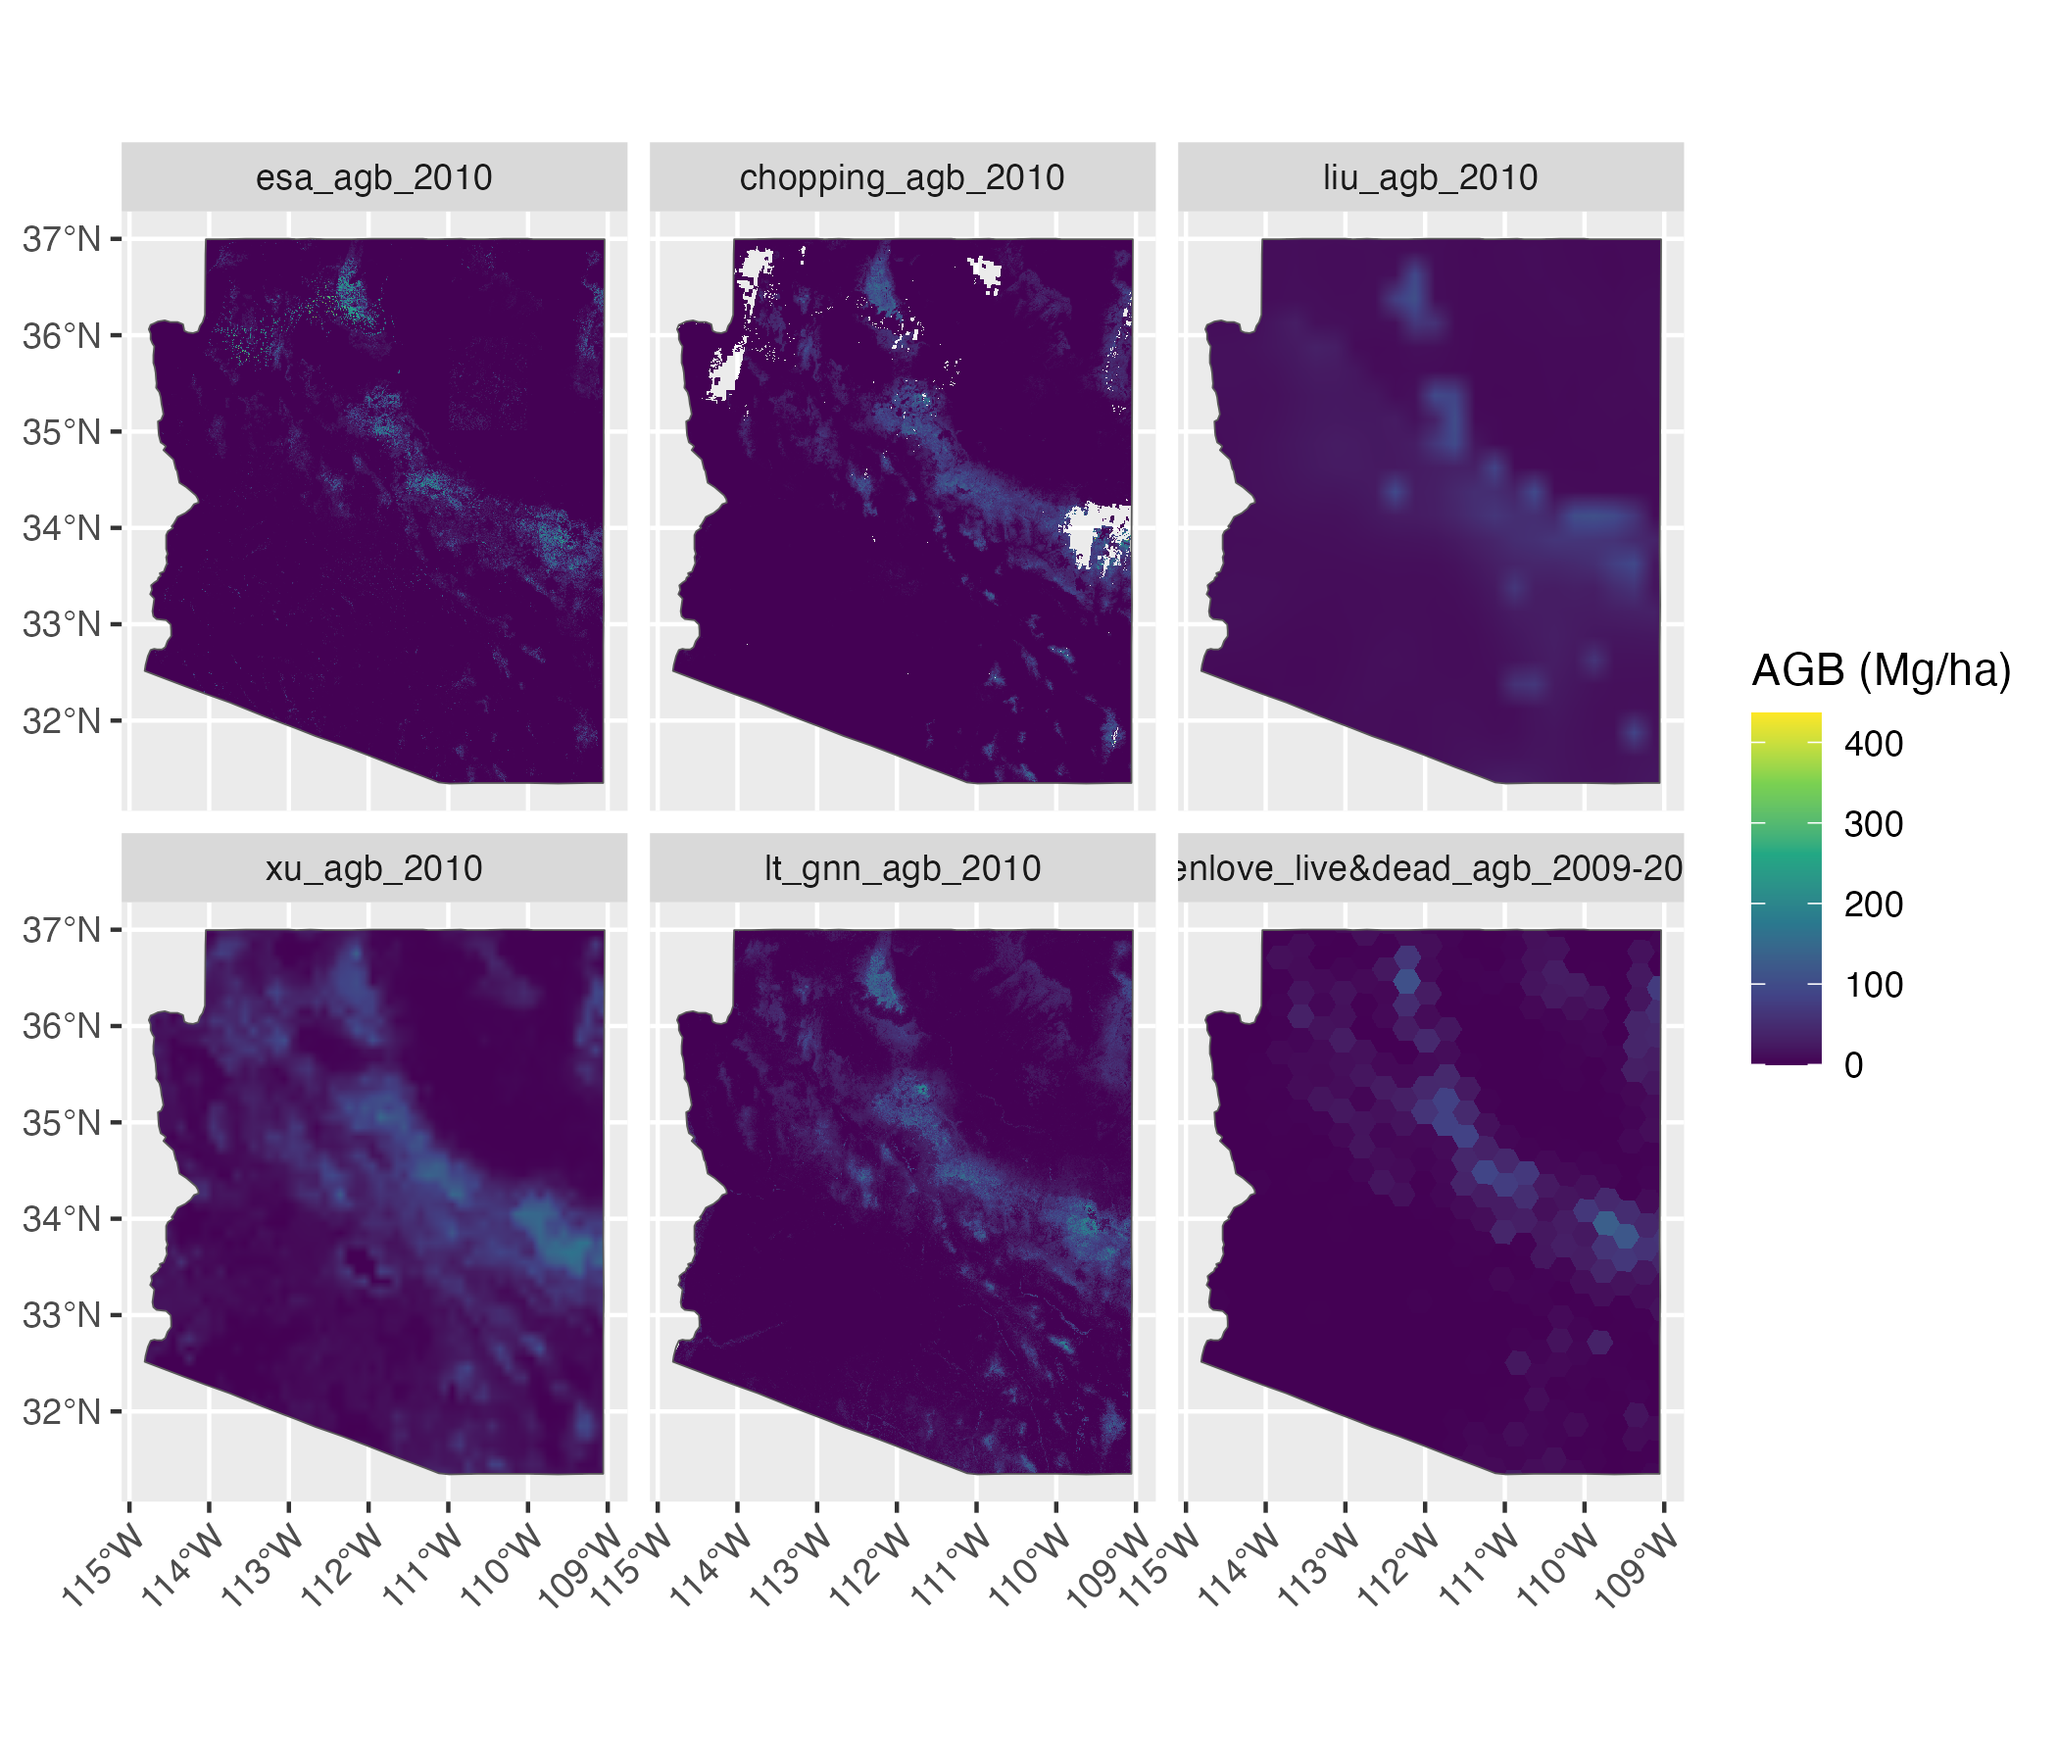
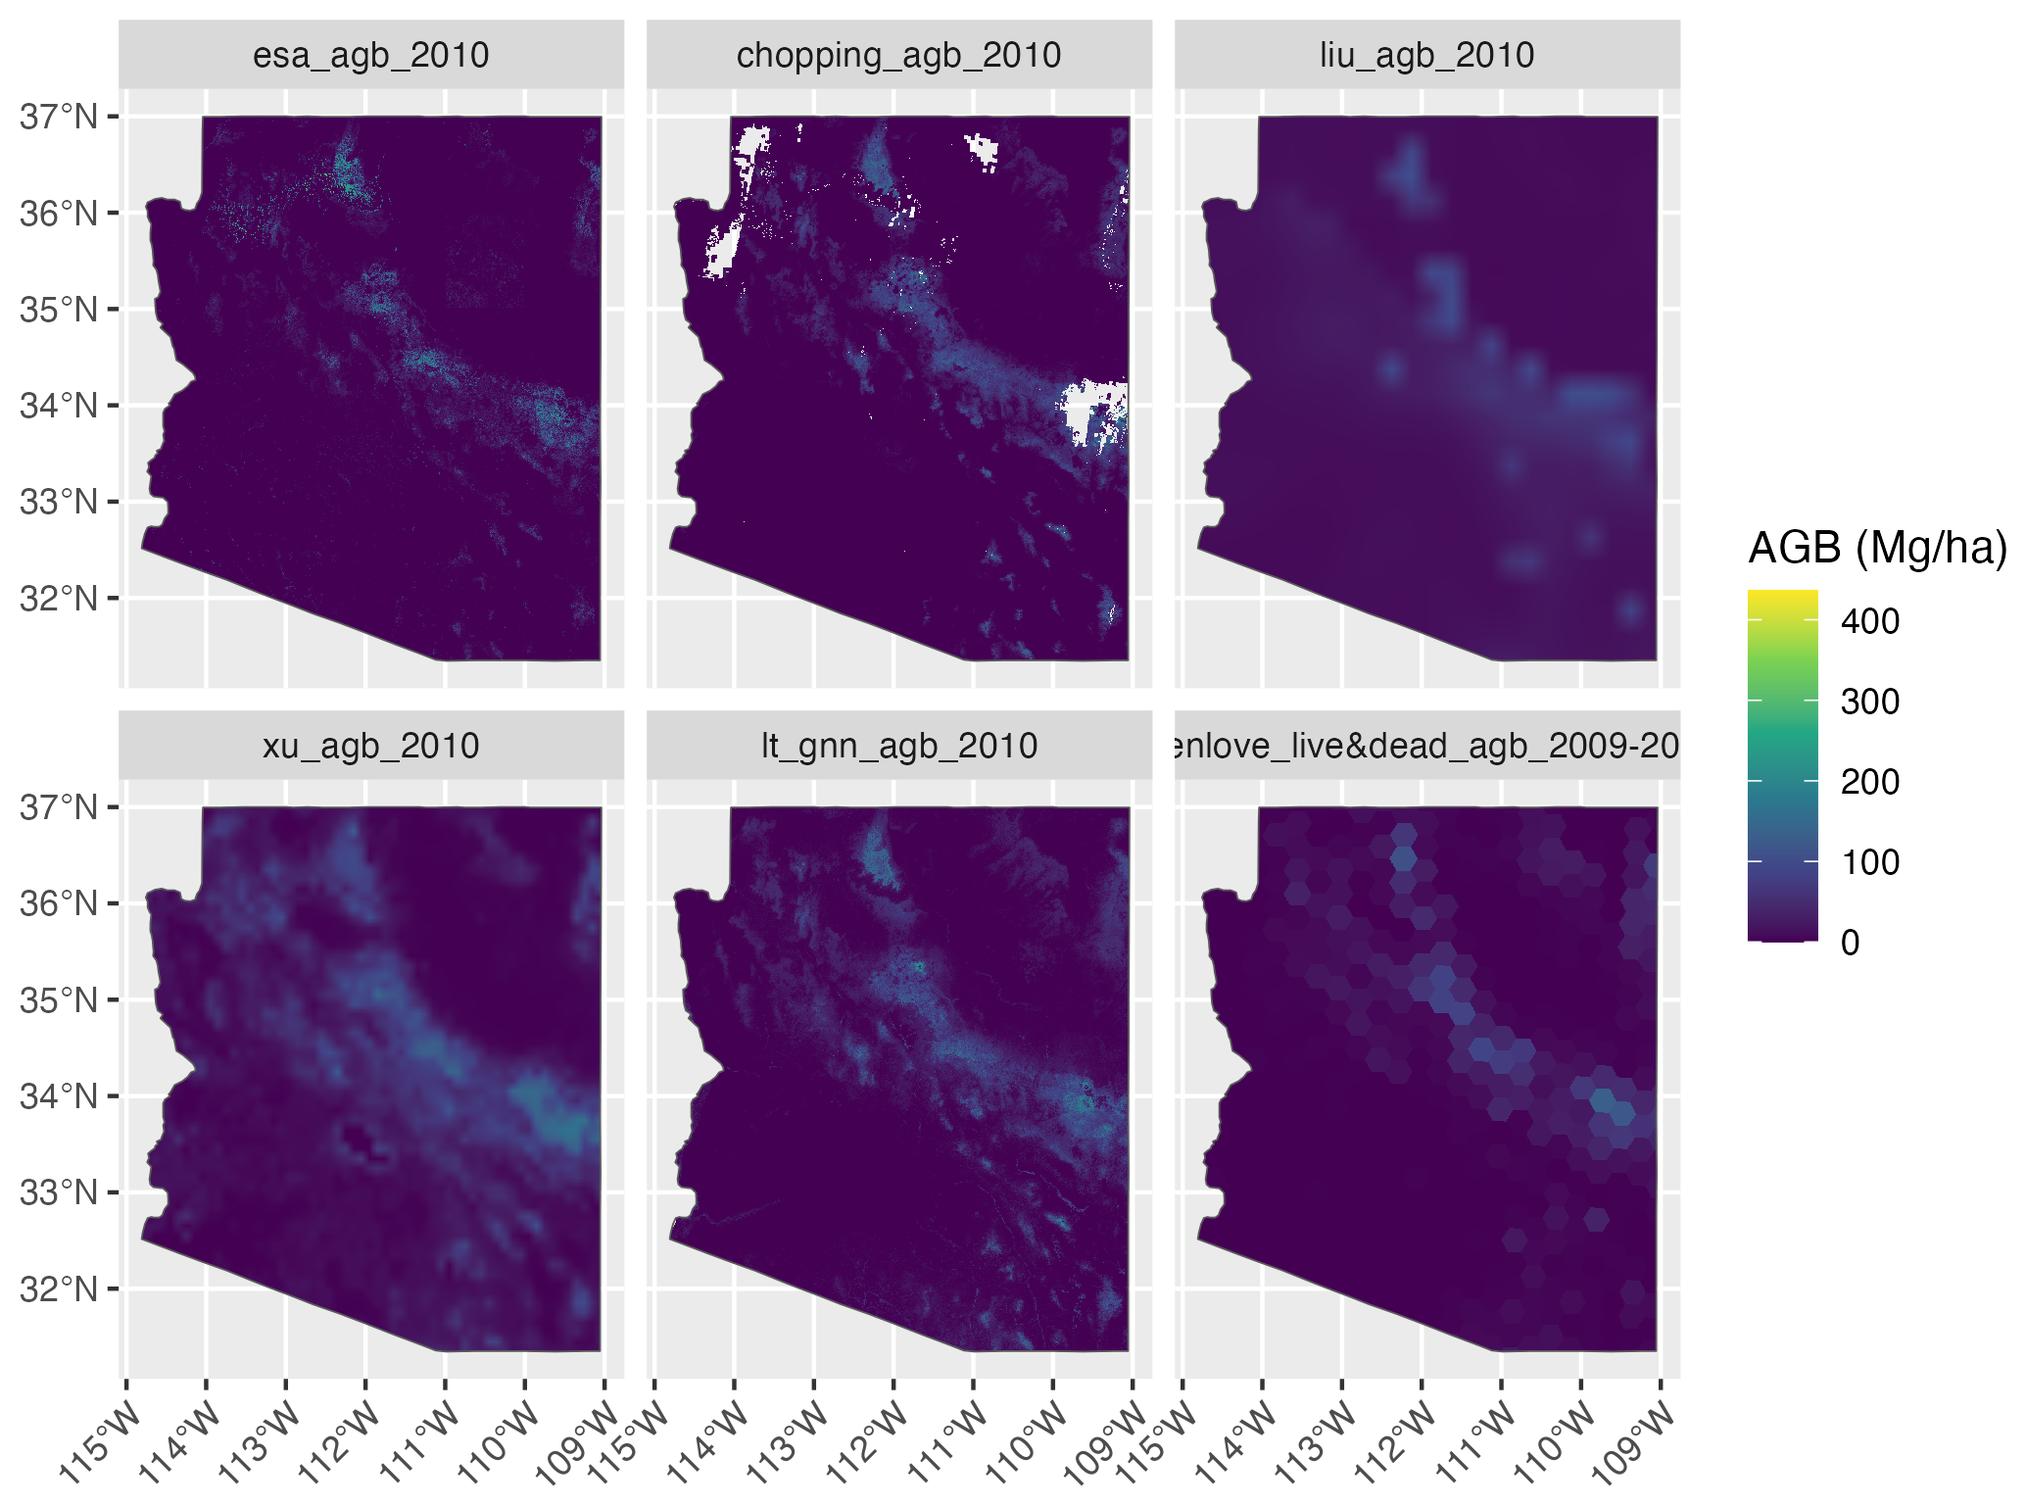
add function to trim whitespace in fixed aspect ratio images

diff --git a/README.md b/README.md
@@ -29,7 +29,7 @@ When opening this repo as an RStudio Project for the first time, `renv` should a
 This project uses the [`targets`
 package](https://docs.ropensci.org/targets/) for workflow management.
 Run `targets::tar_make()` from the console to run the workflow and
-reproduce all results.
+reproduce all results. The graph below shows the workflow:
 
 ``` mermaid
 graph LR
@@ -37,27 +37,17 @@ graph LR
   style Graph fill:#FFFFFF00,stroke:#000000;
   subgraph Legend
     direction LR
+    x0a52b03877696646([""Outdated""]):::outdated --- x7420bd9270f8d27d([""Up to date""]):::uptodate
     x7420bd9270f8d27d([""Up to date""]):::uptodate --- xa8565c104d8f0705([""Dispatched""]):::dispatched
     xa8565c104d8f0705([""Dispatched""]):::dispatched --- xbf4603d6c2c2ad6b([""Stem""]):::none
-    xbf4603d6c2c2ad6b([""Stem""]):::none --- xf0bce276fe2b9d3e>""Function""]:::none
-    xf0bce276fe2b9d3e>""Function""]:::none --- x5bffbffeae195fc9{{""Object""}}:::none
   end
   subgraph Graph
     direction LR
-    x15053a1937322e53>"project_to_esa"]:::uptodate --> xde19c2d7710a74aa>"read_clean_rap"]:::uptodate
-    x15053a1937322e53>"project_to_esa"]:::uptodate --> x2ee228b19c0d6b2e>"read_clean_lt_gnn"]:::uptodate
-    x15053a1937322e53>"project_to_esa"]:::uptodate --> xbfd36d72c68a4204>"read_clean_xu"]:::uptodate
-    x15053a1937322e53>"project_to_esa"]:::uptodate --> x2e41000e16e546a0>"read_clean_chopping"]:::uptodate
-    x15053a1937322e53>"project_to_esa"]:::uptodate --> x1370436f84d35134>"read_clean_liu"]:::uptodate
     x9f7f8cade5fecf35(["esa_agb"]):::uptodate --> xb420f92ea294cb0b(["menlove_agb"]):::uptodate
     x5086af9665941a9e(["menlove_dir"]):::uptodate --> xb420f92ea294cb0b(["menlove_agb"]):::uptodate
-    x27c0fa2f25cfb3e9>"read_clean_menlove"]:::uptodate --> xb420f92ea294cb0b(["menlove_agb"]):::uptodate
     x9f7f8cade5fecf35(["esa_agb"]):::uptodate --> xe4f3f2f15e724def(["liu_agb"]):::uptodate
     x26d0dae1bf6fcb39(["liu_file"]):::uptodate --> xe4f3f2f15e724def(["liu_agb"]):::uptodate
-    x1370436f84d35134>"read_clean_liu"]:::uptodate --> xe4f3f2f15e724def(["liu_agb"]):::uptodate
     x74a8a38fc5a3e271(["agb_stack"]):::uptodate --> xfe73ce9654aaf612(["violin_plot"]):::uptodate
-    xedcb472b0f99a86e>"plot_violin"]:::uptodate --> xfe73ce9654aaf612(["violin_plot"]):::uptodate
-    x484a8c2275f038c1>"get_esa_crs"]:::uptodate --> xe27203ab4d91def0(["esa_crs"]):::uptodate
     x10672e980111f5c2(["chopping_agb"]):::uptodate --> x74a8a38fc5a3e271(["agb_stack"]):::uptodate
     x9f7f8cade5fecf35(["esa_agb"]):::uptodate --> x74a8a38fc5a3e271(["agb_stack"]):::uptodate
     xe4f3f2f15e724def(["liu_agb"]):::uptodate --> x74a8a38fc5a3e271(["agb_stack"]):::uptodate
@@ -65,42 +55,30 @@ graph LR
     xb420f92ea294cb0b(["menlove_agb"]):::uptodate --> x74a8a38fc5a3e271(["agb_stack"]):::uptodate
     x6bb719b45bfee760(["xu_agb"]):::uptodate --> x74a8a38fc5a3e271(["agb_stack"]):::uptodate
     x9f7f8cade5fecf35(["esa_agb"]):::uptodate --> x6bb719b45bfee760(["xu_agb"]):::uptodate
-    xbfd36d72c68a4204>"read_clean_xu"]:::uptodate --> x6bb719b45bfee760(["xu_agb"]):::uptodate
     x39b0a131ab7dd2d0(["xu_file"]):::uptodate --> x6bb719b45bfee760(["xu_agb"]):::uptodate
     x80cf9d1bb79c21e3(["chopping_file"]):::uptodate --> x10672e980111f5c2(["chopping_agb"]):::uptodate
     x9f7f8cade5fecf35(["esa_agb"]):::uptodate --> x10672e980111f5c2(["chopping_agb"]):::uptodate
-    x2e41000e16e546a0>"read_clean_chopping"]:::uptodate --> x10672e980111f5c2(["chopping_agb"]):::uptodate
     xf416ae3442540291(["az_sf"]):::uptodate --> x9f7f8cade5fecf35(["esa_agb"]):::uptodate
     xb91305eee1f5b0b5(["esa_dir"]):::uptodate --> x9f7f8cade5fecf35(["esa_agb"]):::uptodate
-    x512622e89e705564>"read_clean_esa"]:::uptodate --> x9f7f8cade5fecf35(["esa_agb"]):::uptodate
     x9f7f8cade5fecf35(["esa_agb"]):::uptodate --> x5688b5ef6bcea6f9(["rap_agb"]):::uptodate
     x9889d33e942dc03b(["rap_file"]):::uptodate --> x5688b5ef6bcea6f9(["rap_agb"]):::uptodate
-    xde19c2d7710a74aa>"read_clean_rap"]:::uptodate --> x5688b5ef6bcea6f9(["rap_agb"]):::uptodate
     xe27203ab4d91def0(["esa_crs"]):::uptodate --> xf416ae3442540291(["az_sf"]):::uptodate
-    x002baa940db17278>"make_az_sf"]:::uptodate --> xf416ae3442540291(["az_sf"]):::uptodate
-    x74a8a38fc5a3e271(["agb_stack"]):::uptodate --> xd959ad20dd7fd009(["agb_map"]):::uptodate
-    x36e40ad674dfb886>"plot_agb_map"]:::uptodate --> xd959ad20dd7fd009(["agb_map"]):::uptodate
+    x74a8a38fc5a3e271(["agb_stack"]):::uptodate --> xd959ad20dd7fd009(["agb_map"]):::outdated
     x9f7f8cade5fecf35(["esa_agb"]):::uptodate --> x7ff1622cd5d030f8(["ltgnn_agb"]):::uptodate
     xc968c07864940097(["ltgnn_dir"]):::uptodate --> x7ff1622cd5d030f8(["ltgnn_agb"]):::uptodate
-    x2ee228b19c0d6b2e>"read_clean_lt_gnn"]:::uptodate --> x7ff1622cd5d030f8(["ltgnn_agb"]):::uptodate
-    x74a8a38fc5a3e271(["agb_stack"]):::uptodate --> x7dce032f25b5c564(["sd_map"]):::uptodate
-    xfa8cb7ee3b5a88ac>"plot_sd_map"]:::uptodate --> x7dce032f25b5c564(["sd_map"]):::uptodate
+    x74a8a38fc5a3e271(["agb_stack"]):::uptodate --> x7dce032f25b5c564(["sd_map"]):::outdated
     x6e52cb0f1668cc22(["readme"]):::dispatched --> x6e52cb0f1668cc22(["readme"]):::dispatched
-    xe0fba61fbc506510(["report"]):::uptodate --> xe0fba61fbc506510(["report"]):::uptodate
-    x2c2b2c1581769871{{"format_terra"}}:::uptodate --> x2c2b2c1581769871{{"format_terra"}}:::uptodate
-    xbc9cd486be05e6c1{{"format_geotiff"}}:::uptodate --> xbc9cd486be05e6c1{{"format_geotiff"}}:::uptodate
+    xe0fba61fbc506510(["report"]):::outdated --> xe0fba61fbc506510(["report"]):::outdated
   end
+  classDef outdated stroke:#000000,color:#000000,fill:#78B7C5;
   classDef uptodate stroke:#000000,color:#ffffff,fill:#354823;
   classDef dispatched stroke:#000000,color:#000000,fill:#DC863B;
   classDef none stroke:#000000,color:#000000,fill:#94a4ac;
   linkStyle 0 stroke-width:0px;
   linkStyle 1 stroke-width:0px;
   linkStyle 2 stroke-width:0px;
-  linkStyle 3 stroke-width:0px;
-  linkStyle 45 stroke-width:0px;
-  linkStyle 46 stroke-width:0px;
-  linkStyle 47 stroke-width:0px;
-  linkStyle 48 stroke-width:0px;
+  linkStyle 27 stroke-width:0px;
+  linkStyle 28 stroke-width:0px;
 ```
 
 ## File structure
@@ -145,9 +123,11 @@ fs::dir_tree(recurse = 1)
     │   └── report_files
     ├── notes
     │   ├── mosaic_tiles.R
+    │   ├── pointdensity_plots.R
     │   └── violin_plots.R
     ├── run.R
-    └── run.sh
+    ├── run.sh
+    └── trim_image.R
 
 - `R/` contains functions used in the `targets` pipeline.
 - `_targets` is generated by `targets::tar_make()` and only the metadata
